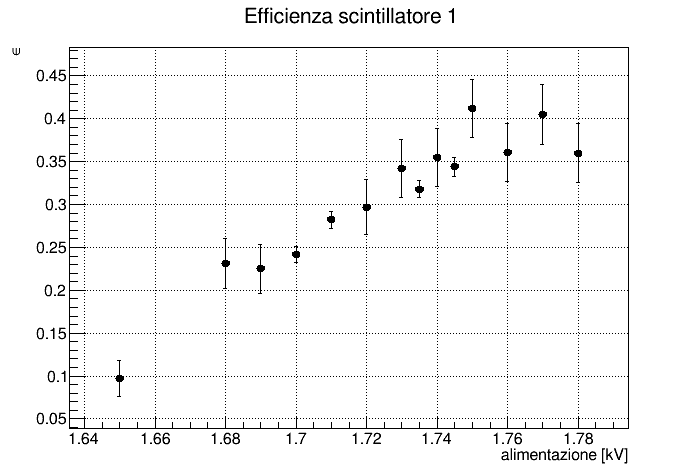
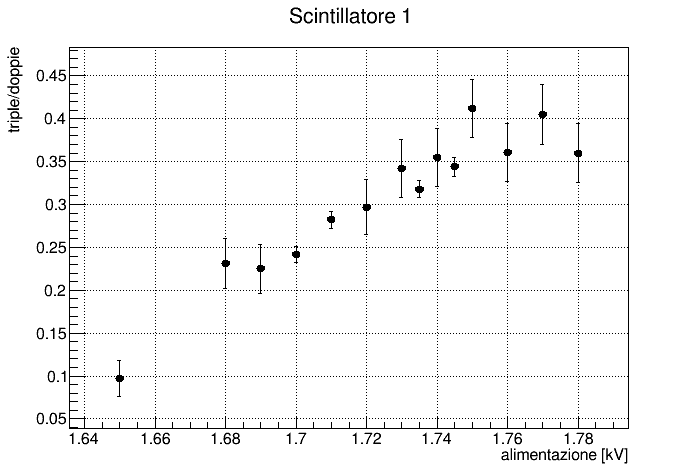
New PMTs pictures

Changed region(s): [[0.3309, 0.0, 0.6318, 0.0588], [0.0, 0.0882, 0.0301, 0.2941]]

diff --git a/instrumentation/efficiency_curve.py b/instrumentation/efficiency_curve.py
@@ -27,7 +27,7 @@ eff_path = os.path.join(os.path.dirname(__file__), 'efficiencies', eff_name)
 fig_path = os.path.join(os.path.dirname(__file__), 'figures', fig_name)
 np.savetxt(eff_path, X, fmt='%.3f')
 
-title = f'Efficienza scintillatore {args.detector_number};alimentazione [kV]; #epsilon'
+title = f'Scintillatore {args.detector_number};alimentazione [kV]; triple/doppie'
 c = ROOT.TCanvas('c1')
 c.SetGrid()
 g = ROOT.TGraphErrors(eff_path)
